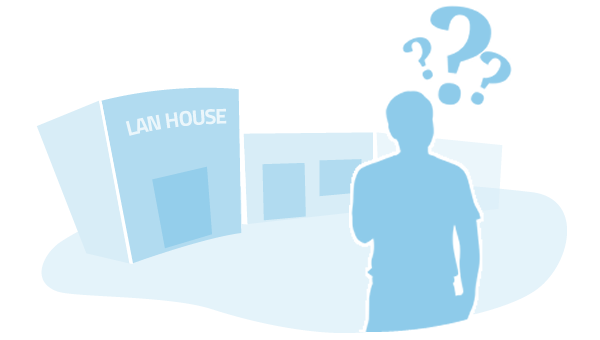
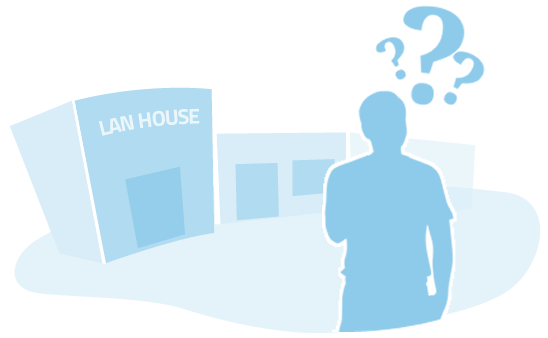
Ajustes na tela inicial

diff --git a/wp-content/themes/gamecdilan/style.css b/wp-content/themes/gamecdilan/style.css
@@ -13,6 +13,14 @@ body{
 	background-color: whiteSmoke;
 }
 
+.btn:hover{
+	background-position: 0 0;
+	background-image: none;
+	background-color: #08C;
+	color: #FFF;
+	text-shadow: 1px 1px 1px rgba(50, 50, 50, 1);
+}
+
 /*Menu topo*/
 
 .admin-bar .navbar-fixed-top{
@@ -77,12 +85,24 @@ body{
 	font-size: 33px;
 }
 
+#home h2{
+	font-size: px;
+}
+
+#home img{
+	margin-top: -30px 
+}
+
 #home .lead{
 	font-size: 19px;
 }
 
 .home-news{
 	margin-bottom: 20px;
+}
+
+#home-links{
+	margin-top: 20px;
 }
 
 #home-links .well h2{

diff --git a/wp-content/themes/gamecdilan/template-inicio.php b/wp-content/themes/gamecdilan/template-inicio.php
@@ -5,47 +5,34 @@
 get_header(); ?>            
                     <section id="home">
                         <div class="container">
+                            <?php if (have_posts()) : ?>
+                                <?php while (have_posts()) : the_post(); ?>
+                                    <div class="entry"><?php the_content(); ?></div>
+                                <?php endwhile; ?>
+                            <?php endif; ?>
                             <div class="row">
-                                <div class="span6">
-                                    <div class="entry">
-                                        <?php if (have_posts()) : ?>
-                                            <?php while (have_posts()) : the_post(); ?>
-                                                <?php the_content(); ?>
-                                            <?php endwhile; ?>
-                                        <?php endif; ?>
+                                <?php
+                                $args = array(
+                                    'posts_per_page' => 1,
+                                    'post__in' => get_option('sticky_posts')
+                                );
+                                query_posts($args);
+                                if (have_posts()) : while (have_posts()) : the_post();
+                                ?>
+                                    <div class="span6">
+                                        <article class="home-news">
+                                            <h2><strong><?php the_title(); ?></strong></h2>
+                                            <p><?php echo get_the_excerpt(); ?></p>
+                                            <a class="btn btn-mini" href="<?php the_permalink(); ?>">Saiba mais &raquo;</a>
+                                        </article>
                                     </div>
-                                    <?php
-                                    $args = array(
-                                        'posts_per_page' => 1,
-                                        'post__in' => get_option('sticky_posts')
-                                    );
-                                    query_posts($args);
-
-                                    if (have_posts()) :
-                                    
-                                        while (have_posts()) : the_post();
-                                    ?>
-                                            
-                                            <article class="home-news">
-                                                <p>
-                                                    <strong><?php the_title(); ?></strong>
-                                                </p><p>
-                                                    <?php echo get_the_excerpt(); ?>
-                                                    <a href="<?php the_permalink(); ?>">saiba mais &raquo;</a>
-                                                </p>
-                                                
-                                            </article>
-
-                                        <?php endwhile; wp_reset_postdata(); ?>
-                                    <? endif; ?>
-                                </div>
-                                <div class="span6">
-                                    <?php if (have_posts()) : ?>
-                                        <?php while (have_posts()) : the_post(); ?>
-                                            <?php if (has_post_thumbnail()) { the_post_thumbnail(); } ?>
-                                        <?php endwhile; ?>
-                                    <?php endif; ?>
-                                </div>
+                                    <div class="span6">
+                                        <?php if (has_post_thumbnail()) { the_post_thumbnail(); } else { ?>
+                                            <img src="<?php bloginfo('template_directory') ?>/img/home.png" />
+                                        <?php } ?>
+                                    </div>
+                                    <?php endwhile; wp_reset_postdata(); ?>
+                                <? endif; ?>
                             </div>
                         </div>
                     </section>
@@ -57,21 +44,21 @@ get_header(); ?>
                                     <div class="well">
                                         <h2>Reinvente sua lanhouse</h2>
                                         <p class="lead">Navegue nos episódios e descubra novas estórias com mais atividades e ganhe pontos reinventando sua lanhouse</p>
-                                        <a href="<?php bloginfo('url'); ?>/episodios/" class="btn pull-right">Navegar nos episódios</a>
+                                        <a href="<?php bloginfo('url'); ?>/episodios/" class="btn">Navegar nos episódios</a>
                                     </div>
                                 </div>
                                 <div class="span4">
                                     <div class="well">
                                         <h2>Colabore com outros jogadores</h2>
                                         <p class="lead">Conheça outros jogadores e avalie suas atividades votando e enviando sua opnião</p>
-                                        <a href="../colabore-com-outros-jogadores" class="btn pull-right">Conhecer outros jogadores</a>
+                                        <a href="../colabore-com-outros-jogadores" class="btn">Conhecer outros jogadores</a>
                                     </div>
                                 </div>
                                 <div class="span4">
                                     <div class="well">
                                         <h2>Participe das corridas</h2>
                                         <p class="lead">Ganhe prêmios! Saiba como funcionam as corridas, conheça as regras e veja o que fazer para começar a participar</p>
-                                        <a href="../premiacoes" class="btn pull-right">Ler a regulamentação</a>
+                                        <a href="../premiacoes" class="btn">Ler a regulamentação</a>
                                     </div>
                                 </div>                            
                             </div>
